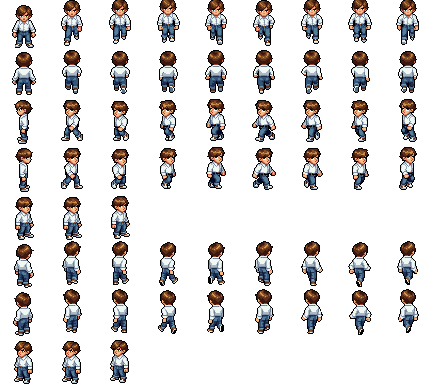
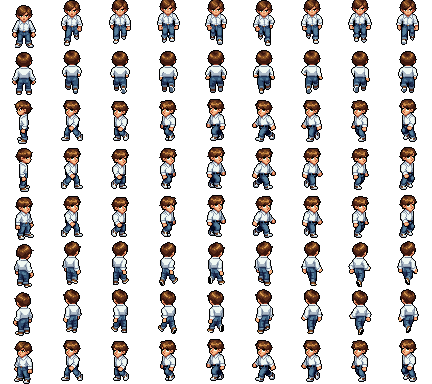
v7.0.8 : jeu plus lumineux, halo sur les ennemis, chauves-souris plus claires, pétards garantis à sec, marche de profil en diagonale face
Claude-Session: https://claude.ai/code/session_01SUBLMYy1BFvxzw1h17Vwcu

diff --git a/index.html b/index.html
@@ -26,35 +26,35 @@
 <body>
 <canvas id="c"></canvas>
 <div id="rotate"><span>⟳</span>Tourne ton téléphone<br>en mode paysage</div>
-<script src="src/core.js?v=7.0.7"></script>
-<script src="src/bus.js?v=7.0.7"></script>
-<script src="src/input.js?v=7.0.7"></script>
-<script src="src/systems/save.js?v=7.0.7"></script>
-<script src="src/systems/heroes.js?v=7.0.7"></script>
-<script src="src/systems/inventory.js?v=7.0.7"></script>
-<script src="src/systems/wallet.js?v=7.0.7"></script>
-<script src="src/systems/shop.js?v=7.0.7"></script>
-<script src="src/systems/story.js?v=7.0.7"></script>
-<script src="src/systems/loot.js?v=7.0.7"></script>
-<script src="src/world.js?v=7.0.7"></script>
-<script src="src/entities.js?v=7.0.7"></script>
-<script src="src/objects.js?v=7.0.7"></script>
-<script src="src/actors.js?v=7.0.7"></script>
-<script src="src/interiors.js?v=7.0.7"></script>
-<script src="src/bois.js?v=7.0.7"></script>
-<script src="src/tools.js?v=7.0.7"></script>
-<script src="src/mines.js?v=7.0.7"></script>
-<script src="src/lac.js?v=7.0.7"></script>
-<script src="src/temple.js?v=7.0.7"></script>
-<script src="src/tower.js?v=7.0.7"></script>
-<script src="src/castle.js?v=7.0.7"></script>
-<script src="src/quests.js?v=7.0.7"></script>
-<script src="src/dungeon.js?v=7.0.7"></script>
-<script src="src/cave.js?v=7.0.7"></script>
-<script src="src/overworld.js?v=7.0.7"></script>
-<script src="src/houses.js?v=7.0.7"></script>
-<script src="src/areas.js?v=7.0.7"></script>
-<script src="src/ui.js?v=7.0.7"></script>
-<script src="src/game.js?v=7.0.7"></script>
+<script src="src/core.js?v=7.0.8"></script>
+<script src="src/bus.js?v=7.0.8"></script>
+<script src="src/input.js?v=7.0.8"></script>
+<script src="src/systems/save.js?v=7.0.8"></script>
+<script src="src/systems/heroes.js?v=7.0.8"></script>
+<script src="src/systems/inventory.js?v=7.0.8"></script>
+<script src="src/systems/wallet.js?v=7.0.8"></script>
+<script src="src/systems/shop.js?v=7.0.8"></script>
+<script src="src/systems/story.js?v=7.0.8"></script>
+<script src="src/systems/loot.js?v=7.0.8"></script>
+<script src="src/world.js?v=7.0.8"></script>
+<script src="src/entities.js?v=7.0.8"></script>
+<script src="src/objects.js?v=7.0.8"></script>
+<script src="src/actors.js?v=7.0.8"></script>
+<script src="src/interiors.js?v=7.0.8"></script>
+<script src="src/bois.js?v=7.0.8"></script>
+<script src="src/tools.js?v=7.0.8"></script>
+<script src="src/mines.js?v=7.0.8"></script>
+<script src="src/lac.js?v=7.0.8"></script>
+<script src="src/temple.js?v=7.0.8"></script>
+<script src="src/tower.js?v=7.0.8"></script>
+<script src="src/castle.js?v=7.0.8"></script>
+<script src="src/quests.js?v=7.0.8"></script>
+<script src="src/dungeon.js?v=7.0.8"></script>
+<script src="src/cave.js?v=7.0.8"></script>
+<script src="src/overworld.js?v=7.0.8"></script>
+<script src="src/houses.js?v=7.0.8"></script>
+<script src="src/areas.js?v=7.0.8"></script>
+<script src="src/ui.js?v=7.0.8"></script>
+<script src="src/game.js?v=7.0.8"></script>
 </body>
 </html>

diff --git a/src/game.js b/src/game.js
@@ -1,5 +1,6 @@
 'use strict';
 // ---------- le jeu : états, transitions, scènes, rendu du monde ----------
+const DARK_K = 0.62; // < 1 : nuit moins sombre partout (1 = l'obscurité d'origine)
 const G = {
   state: 'boot', t: 0, areas: {}, area: null, player: null, parts: new Parts(),
   cam: { x: 0, y: 0 }, shake: 0, hitstop: 0, dialog: null, fade: null, slide: null, room: 0,
@@ -398,13 +399,14 @@ const G = {
   },
   lightsList(cx, cy) {
     const A = this.area, P = this.player, L = [];
-    L.push({ x: P.x, y: P.y - 12, r: A.rooms ? 100 : 92, c: 'rgba(200,220,255,' });
+    L.push({ x: P.x, y: P.y - 12, r: A.rooms ? 120 : 112, c: 'rgba(200,220,255,' });
     if (SAVE.met_lumi) L.push(Lumi.light);
     for (const p of A.props) if (p.light) L.push({ x: p.x, y: p.y + (p.light.oy || -8), r: p.light.r, c: p.light.c, flick: p.light.flick, warm: p.light.warm });
     for (const e of A.ents) {
       if (e.dead || (!this.slide && !this.inRoom(e))) continue;
       const li = e.light; if (li) { const lp = e.lightPos; L.push({ x: lp ? lp[0] : e.x, y: lp ? lp[1] - 6 : e.y - (e.alt || 6) - 6, r: li.r, c: li.c, flick: li.flick, warm: li.warm }); }
       if (e.lights) for (const l of e.lights) L.push({ x: e.x + l.dx, y: e.y + l.dy, r: l.r, c: l.c });
+      if (e.isEnemy && !li && !e.isBoss) L.push({ x: e.x, y: e.y - (e.alt || 0) - 8, r: 30, c: 'rgba(255,150,170,' }); // halo : on repère les ennemis dans le noir
     }
     return L.filter(l => l.x + l.r > cx && l.x - l.r < cx + W && l.y + l.r > cy && l.y - l.r < cy + H);
   },
@@ -413,7 +415,7 @@ const G = {
     l.setTransform(1, 0, 0, 1, 0, 0); l.globalCompositeOperation = 'source-over';
     l.clearRect(0, 0, W * SC, H * SC);
     const rd = this.darkFrom != null ? this.darkFrom : A.roomDark ? A.roomDark(this.room) : null;
-    l.fillStyle = `rgba(4,8,26,${rd != null ? rd : A.dark})`; l.fillRect(0, 0, W * SC, H * SC);
+    l.fillStyle = `rgba(4,8,26,${((rd != null ? rd : A.dark) * DARK_K).toFixed(3)})`; // DARK_K : luminosité globale l.fillRect(0, 0, W * SC, H * SC);
     l.globalCompositeOperation = 'destination-out';
     for (const o of L) {
       const r = (o.r + (o.flick ? Math.sin(this.t * 13) * 3 + Math.sin(this.t * 7.3) * 2 : 0)) * SC, x = (o.x - cx) * SC, y = (o.y - cy) * SC;

diff --git a/sw.js b/sw.js
@@ -1,11 +1,11 @@
 // À chaque déploiement : changer VERSION ici, VERSION dans src/core.js et les ?v= dans index.html.
-const VERSION = 'v7.0.7';
+const VERSION = 'v7.0.8';
 const CACHE = 'escape-night2-' + VERSION;
 const PROPS = ['pine1', 'pine2', 'oak1', 'oak2', 'tent_r', 'tent_b', 'tent_y', 'campfire', 'campfire2', 'bush', 'log', 'rock', 'lamp', 'sign', 'fence', 'flowers', 'table'];
 const SCRIPTS = ['src/core.js', 'src/bus.js', 'src/input.js', 'src/systems/save.js', 'src/systems/heroes.js', 'src/systems/inventory.js', 'src/systems/wallet.js', 'src/systems/shop.js', 'src/systems/story.js', 'src/systems/loot.js', 'src/world.js', 'src/entities.js', 'src/objects.js', 'src/actors.js', 'src/interiors.js', 'src/bois.js', 'src/tools.js', 'src/mines.js', 'src/lac.js', 'src/temple.js', 'src/tower.js', 'src/castle.js', 'src/quests.js', 'src/dungeon.js', 'src/cave.js', 'src/overworld.js', 'src/houses.js', 'src/areas.js', 'src/ui.js', 'src/game.js'];
 const FACES = ['sacha', 'cam', 'rox', 'papa'].flatMap(w => ['smile', 'o', 'angry', 'wink'].map(m => `${w}_${m}`)).concat(['amandine_smile', 'claudine_smile']);
 const FILES = ['./', 'index.html', 'manifest.json', 'icon-192.png', 'icon-512.png',
-  ...SCRIPTS.map(s => s + '?v=7.0.7'),
+  ...SCRIPTS.map(s => s + '?v=7.0.8'),
   ...['heroes', 'items', 'shops', 'dialogues'].map(k => `data/${k}.json?v=${VERSION}`),
   ...['sacha', 'cam', 'rox'].flatMap(h => [`assets/${h}.png?v=${VERSION}`, `assets/${h}.json?v=${VERSION}`]),
   ...FACES.map(f => `assets/faces/${f}.png?v=${VERSION}`),

diff --git a/src/systems/loot.js b/src/systems/loot.js
@@ -24,7 +24,8 @@ const LOOT = {
 function dropLoot(G, kind, x, y) {
   const table = LOOT[kind]; if (!table) return;
   // lance-pierre à sec : le prochain ennemi vaincu (ou buisson, jarre) lâche forcément des cailloux, sauf s'il y en a déjà au sol
-  if (Inventory.has('lance_pierre') && Inventory.ammo('cailloux') === 0 && !G.area.ents.some(e => e instanceof Pickup && e.kind === 'stones' && !e.dead)) { G.area.ents.push(new Pickup(x, y, 'stones')); return; }
+  for (const [item, ammo, kind] of [['lance_pierre', 'cailloux', 'stones'], ['petards', 'petards', 'petards']])
+    if (Inventory.has(item) && Inventory.ammo(ammo) === 0 && !G.area.ents.some(e => e instanceof Pickup && e.kind === kind && !e.dead)) { G.area.ents.push(new Pickup(x, y, kind)); return; }
   let r = Math.random();
   for (const [p, what] of table) {
     if (r < p) { let w = what; if (w === 'stones' && !Inventory.has('lance_pierre')) w = 'coin1'; if (w === 'petards' && !Inventory.has('petards')) w = 'coin1'; G.area.ents.push(new Pickup(x, y, w)); return; }

diff --git a/src/entities.js b/src/entities.js
@@ -394,7 +394,7 @@ class Bat extends Enemy {
   }
   draw() {
     ell(this.x, this.y, 5, 1.8, 'rgba(0,0,0,.3)');
-    const f = Math.floor(this.t * 14) % 2, fl = this.flash > 0, b = fl ? '#fff' : '#3a2a4a', wc = fl ? '#fff' : '#2a1d38', wl = fl ? '#fff' : '#4a3a5e';
+    const f = Math.floor(this.t * 14) % 2, fl = this.flash > 0, b = fl ? '#fff' : '#6a4a86', wc = fl ? '#fff' : '#4a3266', wl = fl ? '#fff' : '#8a6ab0';
     hi(this.x, this.y - this.alt + Math.sin(this.t * 10), false, () => {
       if (f) { D(-22, -6, 14, 4, wc); D(-24, -4, 4, 6, wc); D(8, -6, 14, 4, wc); D(20, -4, 4, 6, wc); D(-18, -2, 3, 3, wl); D(15, -2, 3, 3, wl); }
       else { D(-20, -14, 12, 4, wc); D(-24, -18, 6, 6, wc); D(8, -14, 12, 4, wc); D(18, -18, 6, 6, wc); D(-16, -10, 8, 3, wl); D(8, -10, 8, 3, wl); }

diff --git a/src/core.js b/src/core.js
@@ -1,6 +1,6 @@
 'use strict';
 // ---------- constantes ----------
-const VERSION = 'v7.0.7';
+const VERSION = 'v7.0.8';
 const W = 480, H = 270, SC = 2, TS = 16;
 const cv = document.getElementById('c');
 const ctx = cv.getContext('2d');

diff --git a/assets/src/build_sacha.py b/assets/src/build_sacha.py
@@ -16,6 +16,8 @@ walks['left']=[ImageOps.mirror(f) for f in walks['right']]
 walks['up']=cycle(frames('assets/src/sacha_walk_up.gif'),54)
 walks['up_right']=cycle(frames('assets/src/sacha_walk_up_right.gif'),54)
 walks['up_left']=[ImageOps.mirror(f) for f in walks['up_right']]
+# en attendant une marche de trois quarts face : la marche de profil
+walks['down_right']=walks['right']; walks['down_left']=walks['left']
 W,Hh=48,48; rows=[]
 for d,i in [('down',0),('up',4),('left',6),('right',2),('down_right',1),('up_right',3),('up_left',5),('down_left',7)]:
   pose=Image.new('RGBA',(W,Hh)); pose.paste(T[i],(0,2)); bob=Image.new('RGBA',(W,Hh)); bob.paste(T[i],(0,1))
